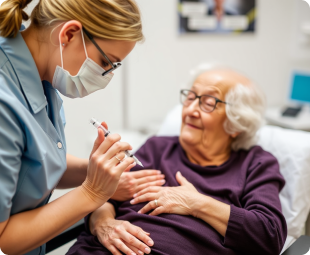
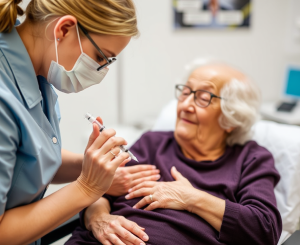
yellow color with font

diff --git a/med.css b/med.css
@@ -234,8 +234,16 @@ hr {
 .service-card img {
   width: 100%;
   height: auto;
-  border-radius: 16px;
-  margin-bottom: 10px;
+  border-radius: 16px 16px 0 0;
+  border-bottom: 7px solid #d4f049;
+}
+
+.service-card hr {
+  width: 100%;
+  height: 10px;
+  background-color: #1bc515;
+  border-radius: 0px;
+  margin: 0;
 }
 
 .service-card h3 {
